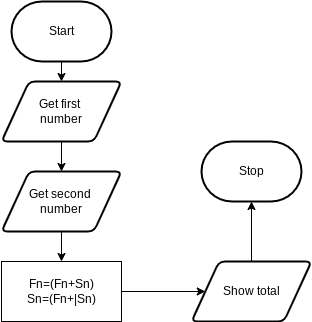
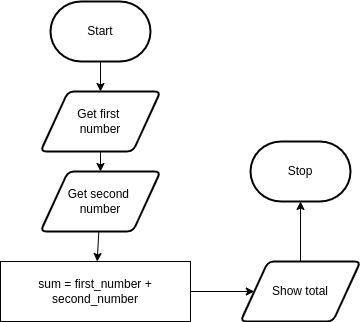
changes have bin made

diff --git a/ICS3U-Unit3-01.py b/ICS3U-Unit3-01.py
@@ -12,16 +12,15 @@ def main():
     # this function adds two numbers together
 
     # input
-    Fn = int(input("Enter in any number:"))
-    Sn = int(input("Enter in any number:"))
+    first_number = int(input("Enter in any number:"))
+    second_number = int(input("Enter in any number:"))
 
     # process
-    Fn = Fn + Sn
-    Sn = Fn + Sn
+    sum = first_number + second_number
 
     # output
     print("")
-    print("Total is: {0} ".format(Fn))
+    print("{0} + {1} = {2}".format(first_number, second_number, sum))
     print("\nDone.")
 
 
